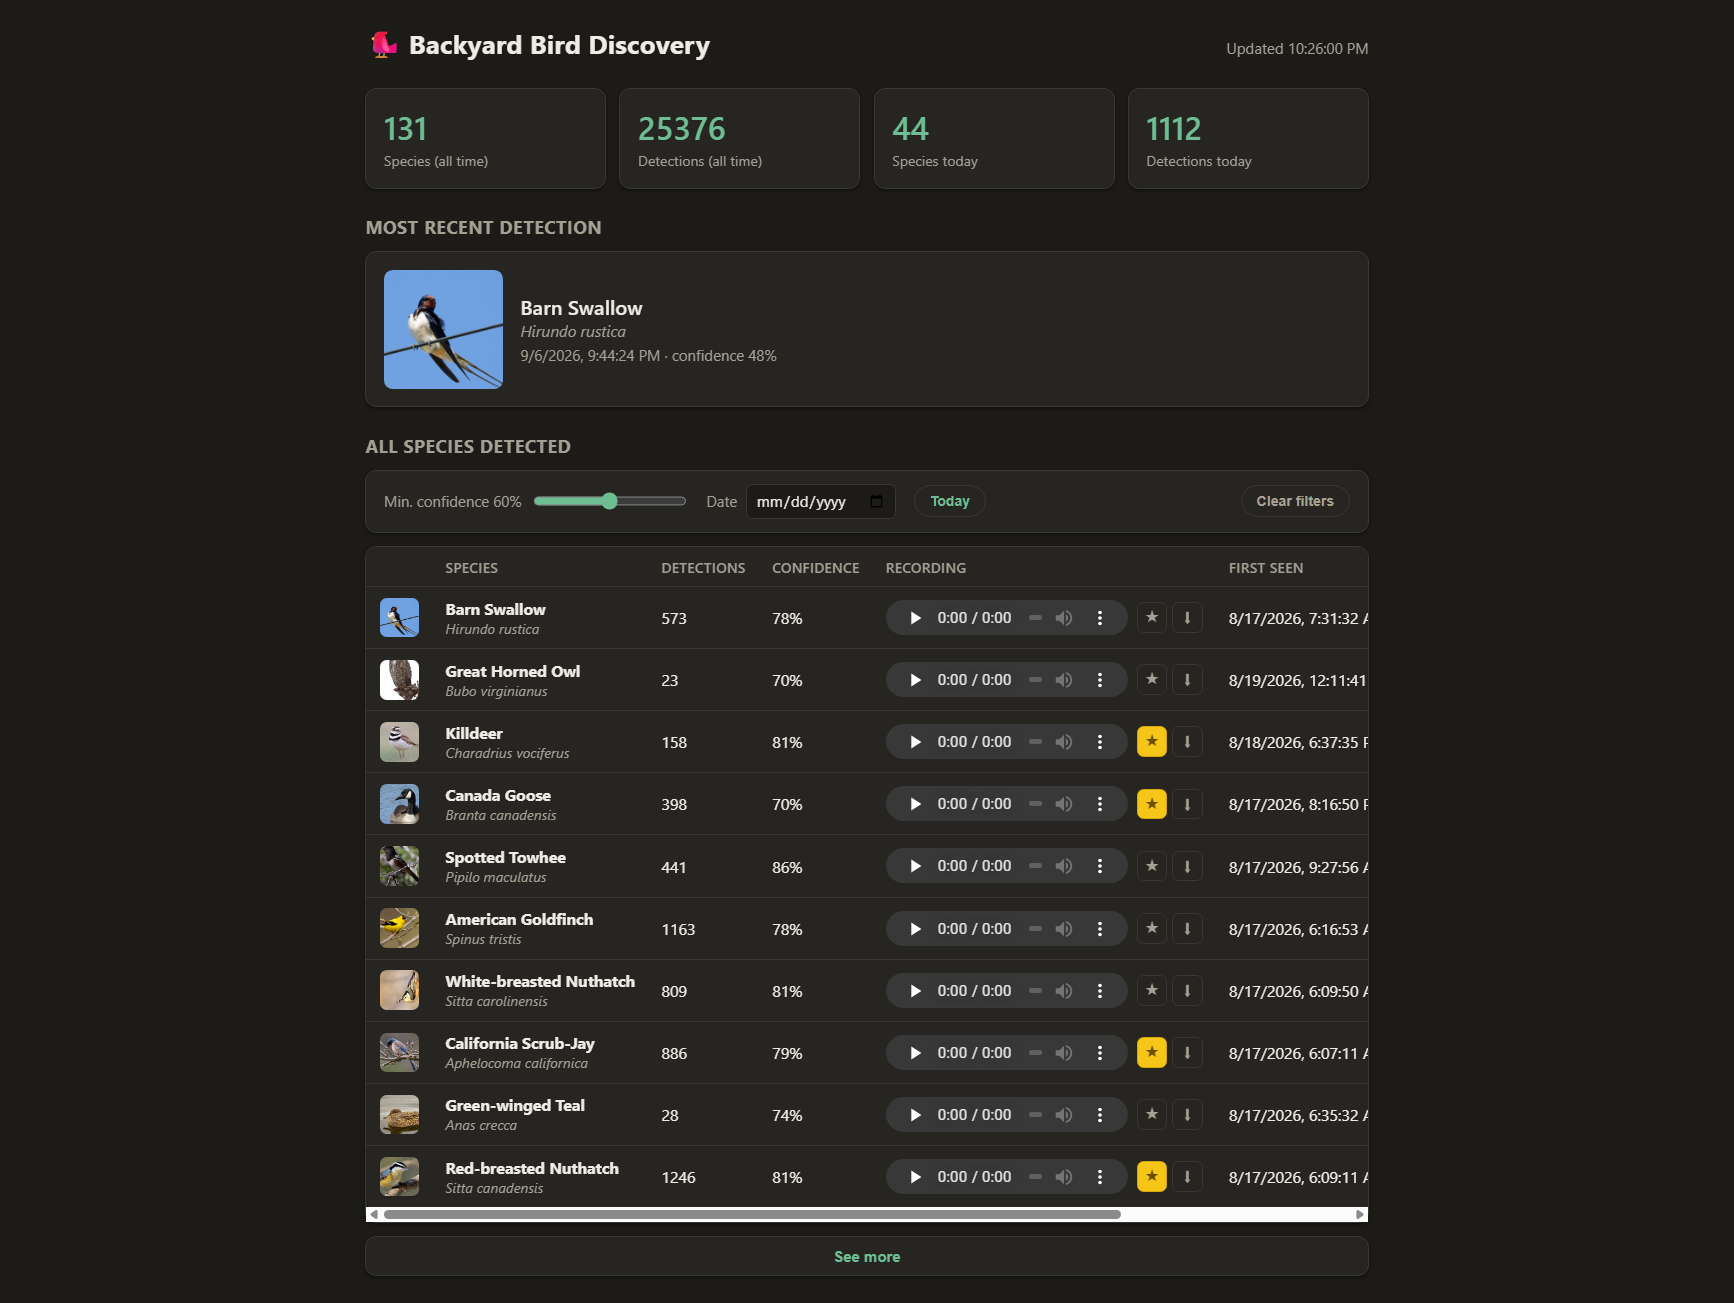
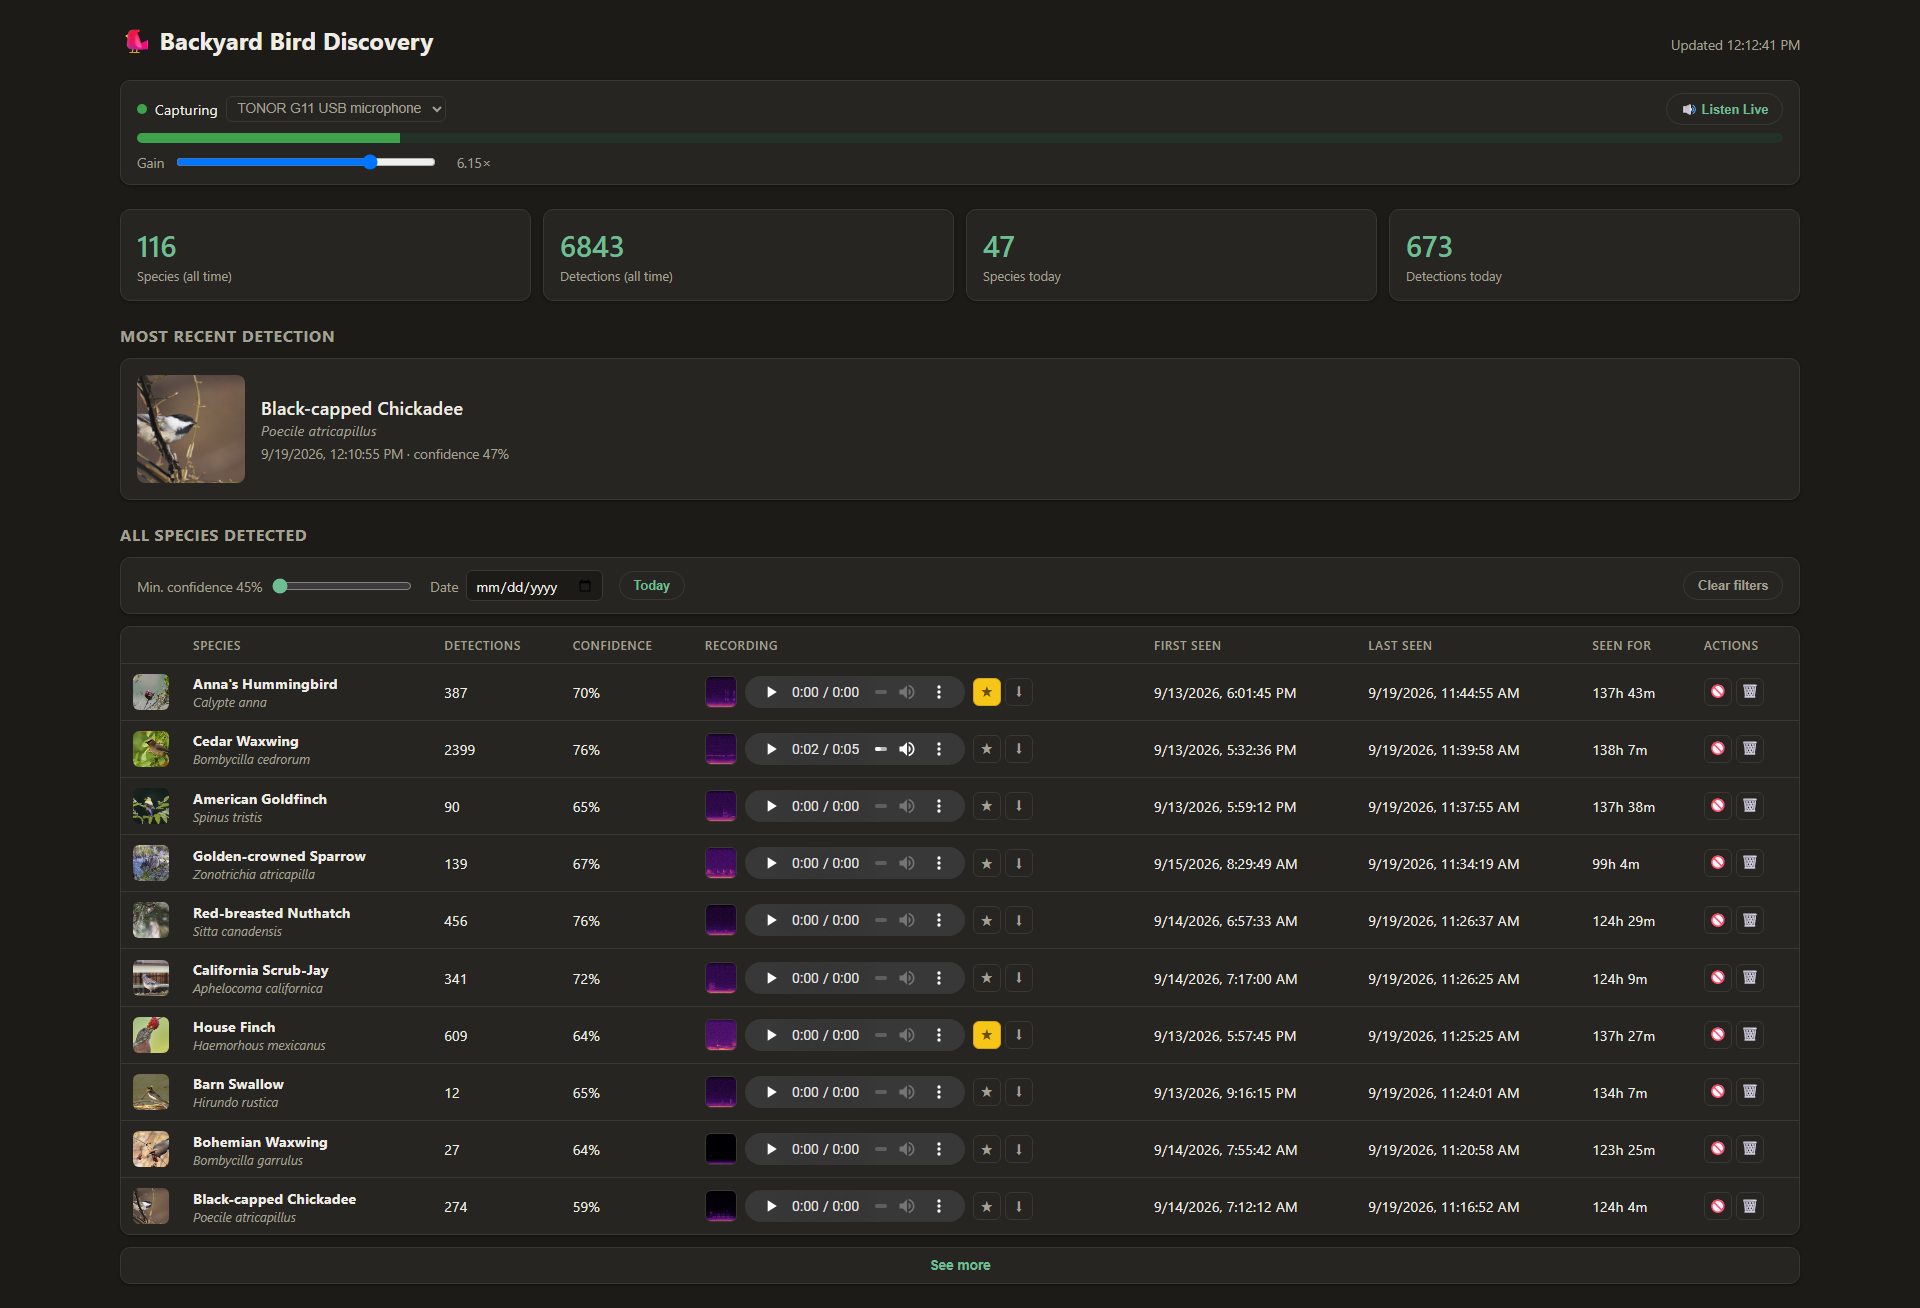
Fix previous commit: actually include the new screenshot and README change
The prior commit's git add failed on a stale pathspec and aborted
silently, so it only renamed the file without updating its content,
and dropped the README.md reference change entirely. This commit
supersedes it with both actually applied.

Claude-Session: https://claude.ai/code/session_013SGqAPxbzJ9YFps5aAjnzK

diff --git a/README.md b/README.md
@@ -1,4 +1,4 @@
-![Dashboard screenshot](screencapture-10-0-0-218-8765-2026-09-06-22_26_01.png)
+![Dashboard screenshot](dashboard-screenshot.png)
 # Backyard Bird Discovery System
 
 Local-first pipeline: outdoor microphone → BirdNET-Analyzer → SQLite
